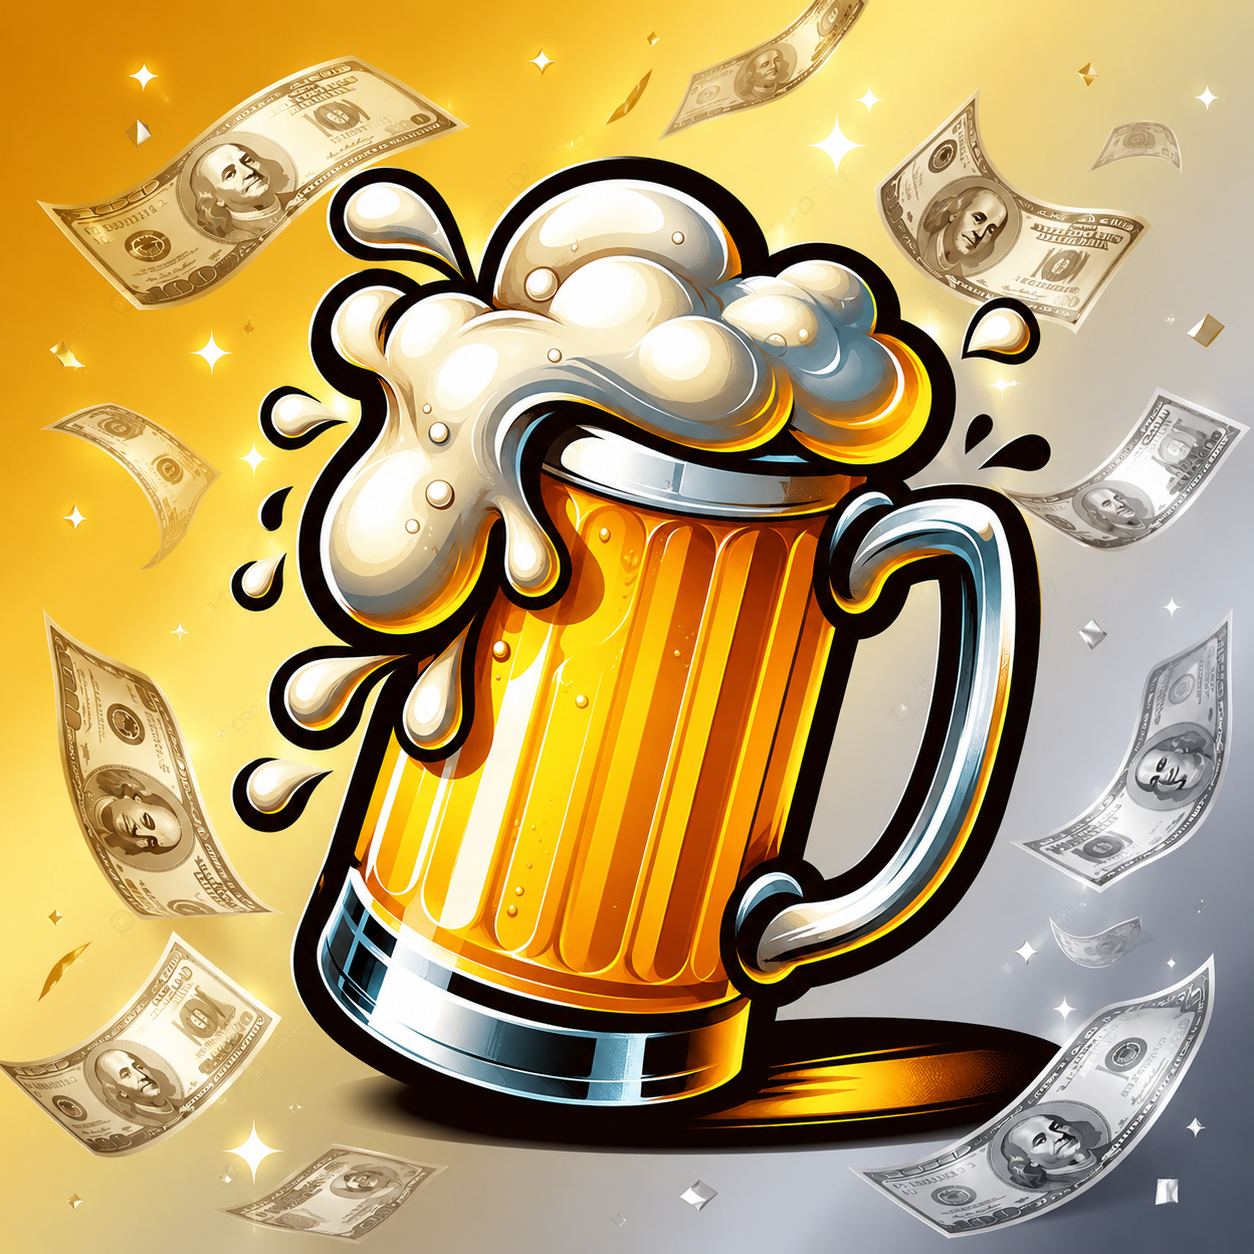
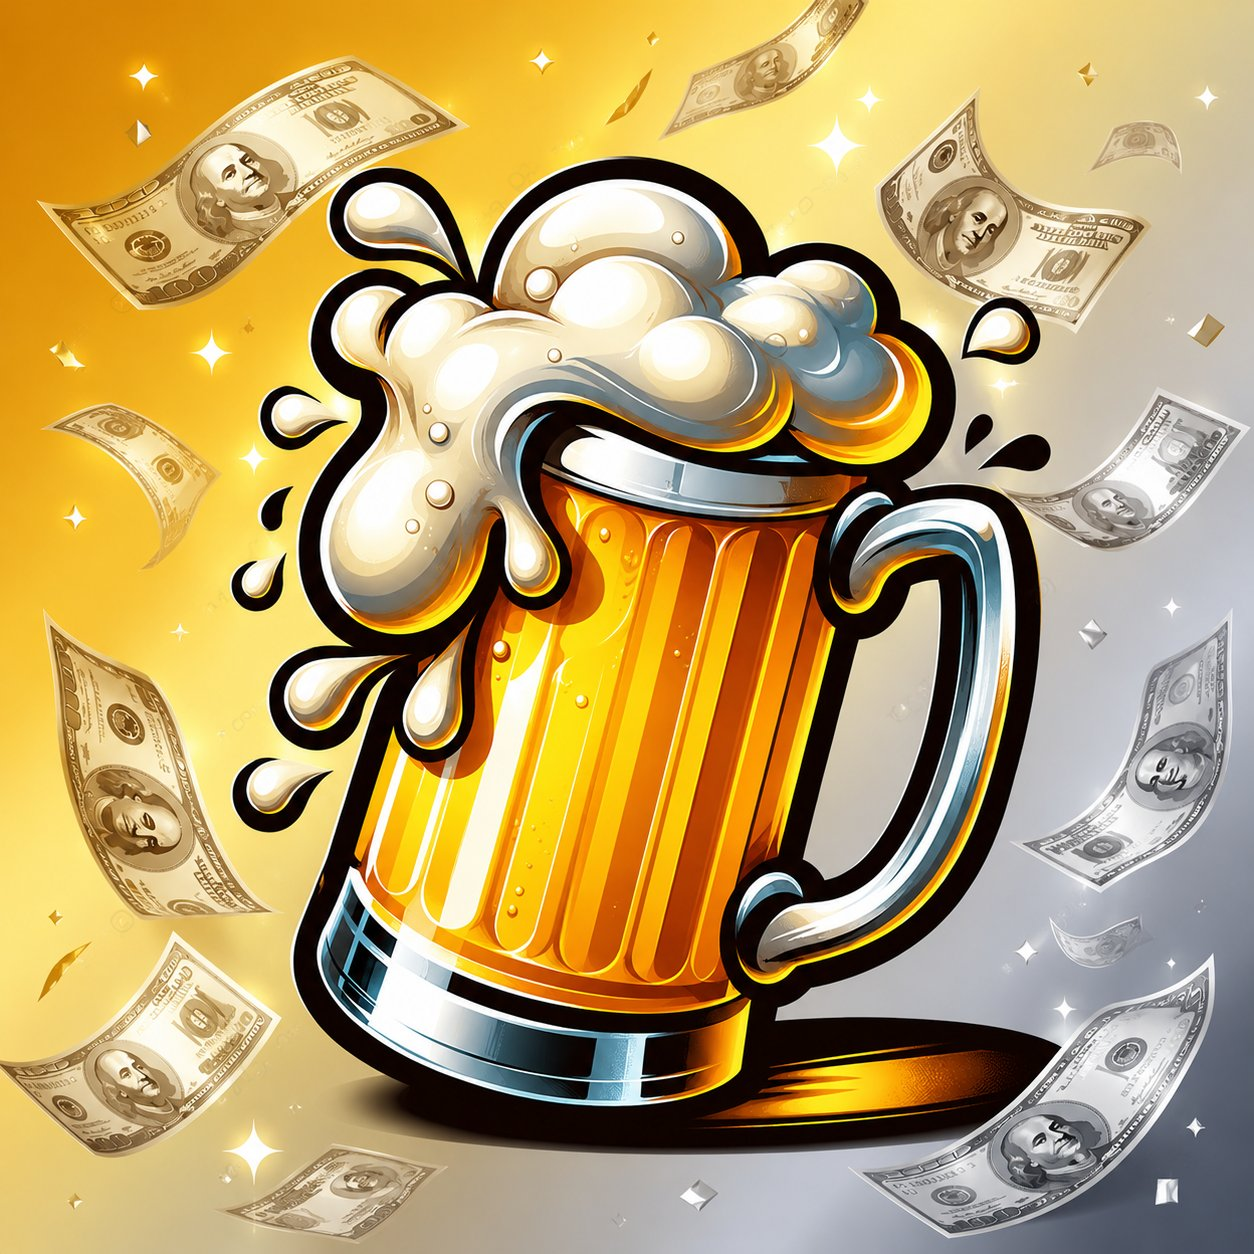
Add files via upload

diff --git a/js/app.js b/js/app.js
@@ -4,7 +4,7 @@
 
 let records = [];
 let stocks  = [];
-let settings = { shopName: 'ร้านลูกชิ้นปิ้ง & น้ำ', backupMonths: 3, firebaseConfig: '', lang: 'th' };
+let settings = { shopName: 'ร้านลูกชิ้นปิ้ง & น้ำ', backupMonths: 3, firebaseConfig: '', lang: 'th', ownerName: '', idCard: '' };
 let db = null;
 let reportPeriod = 'week';
 let nextId = 1;
@@ -490,6 +490,9 @@ function renderReport() {
   setText('lbl-pick-week',  isEn?'📅 Center date':'📅 วันกลาง');
   setText('btn-week-today', isEn?'Today':'วันนี้');
   setText('lbl-ymax', isEn?'Max ฿':'สูงสุด ฿');
+  setText('btn-export-pdf', isEn?'📄 Export PDF':'📄 Export PDF');
+  setText('lbl-owner-name', isEn?'Owner name':'ชื่อ-นามสกุลเจ้าของ');
+  setText('lbl-id-card', isEn?'ID card number':'เลขบัตรประชาชน');
   setText('leg-income',tx('legIncome')); setText('leg-expense',tx('legExpense'));
   document.getElementById('skewer-report').innerHTML = catBlockHTML(s.sIncome, s.sExpense, s.sNet);
   document.getElementById('drink-report').innerHTML  = catBlockHTML(s.dIncome, s.dExpense, s.dNet);
@@ -648,6 +651,8 @@ function updateBkPills() { [1,3,6,12,0].forEach(m=>{const e=document.getElementB
 function updateBkHint()  { const e=document.getElementById('lbl-backup-hint');if(e)e.textContent=txf('backupHint',selectedBackupMonths); }
 function saveSettings() {
   settings.shopName       = document.getElementById('setting-shop-name').value.trim()||settings.shopName;
+  settings.ownerName      = document.getElementById('setting-owner-name').value.trim();
+  settings.idCard         = document.getElementById('setting-id-card').value.trim();
   settings.backupMonths   = selectedBackupMonths;
   settings.firebaseConfig = document.getElementById('setting-firebase').value.trim();
   saveLocal(); initFirebase(settings.firebaseConfig); closeSettings(); renderAll(); showToast(tx('saved'));
@@ -1218,4 +1223,216 @@ function migrateMenuFromRecords() {
   } else {
     showToast(isEn ? 'No new items to add' : 'ไม่มีรายการใหม่ที่ต้องเพิ่ม');
   }
+}
+
+// ══════════════════════════════════════════════════════════════
+// STATEMENT PDF
+// ══════════════════════════════════════════════════════════════
+let stmtMode = 'range';
+
+function openStatementModal() {
+  stmtMode = 'range';
+  updateStmtMode();
+  // ค่า default
+  const now = new Date();
+  const y = now.getFullYear();
+  const m = String(now.getMonth()+1).padStart(2,'0');
+  document.getElementById('stmt-month').value = `${y}-${m}`;
+  // default range = เดือนนี้
+  document.getElementById('stmt-from').value = `${y}-${m}-01`;
+  document.getElementById('stmt-to').value   = todayStr();
+
+  const isEn = settings.lang==='en';
+  setText('lbl-stmt-title',  isEn?'📄 Export Statement PDF':'📄 Export Statement PDF');
+  setText('lbl-stmt-range',  isEn?'Period':'ช่วงเวลา');
+  setText('stmt-mode-range', isEn?'Custom range':'กำหนดเอง');
+  setText('stmt-mode-month', isEn?'By month':'รายเดือน');
+  setText('lbl-stmt-from',   isEn?'From':'จาก');
+  setText('lbl-stmt-to',     isEn?'To':'ถึง');
+  setText('lbl-stmt-month',  isEn?'Month':'เดือน');
+  setText('stmt-cancel',     isEn?'Cancel':'ยกเลิก');
+  setText('stmt-generate',   isEn?'📄 Generate PDF':'📄 สร้าง PDF');
+
+  document.getElementById('statement-modal').style.display='flex';
+}
+function closeStatementModal() {
+  document.getElementById('statement-modal').style.display='none';
+}
+function closeStatementOutside(e) {
+  if(e.target.id==='statement-modal') closeStatementModal();
+}
+function setStmtMode(mode) {
+  stmtMode = mode;
+  updateStmtMode();
+}
+function updateStmtMode() {
+  document.getElementById('stmt-range-row').style.display = stmtMode==='range'?'block':'none';
+  document.getElementById('stmt-month-row').style.display = stmtMode==='month'?'block':'none';
+  document.getElementById('stmt-mode-range').classList.toggle('active', stmtMode==='range');
+  document.getElementById('stmt-mode-month').classList.toggle('active', stmtMode==='month');
+}
+
+function generatePDF() {
+  const isEn = settings.lang==='en';
+
+  // ── กำหนดช่วงวันที่ ──
+  let fromStr, toStr, periodLabel;
+  if(stmtMode==='month') {
+    const ym = document.getElementById('stmt-month').value;
+    if(!ym) { showToast(isEn?'Please select month':'กรุณาเลือกเดือน'); return; }
+    const days = getMonthDays(ym);
+    fromStr = days[0]; toStr = days[days.length-1];
+    const d = new Date(ym+'-01T00:00:00');
+    periodLabel = d.toLocaleDateString(isEn?'en-GB':'th-TH',{year:'numeric',month:'long'});
+  } else {
+    fromStr = document.getElementById('stmt-from').value;
+    toStr   = document.getElementById('stmt-to').value;
+    if(!fromStr||!toStr) { showToast(isEn?'Please select date range':'กรุณาเลือกวันที่'); return; }
+    periodLabel = `${fromStr} – ${toStr}`;
+  }
+
+  // ── กรอง records ──
+  const recs = [...records]
+    .filter(r => r.date>=fromStr && r.date<=toStr)
+    .sort((a,b) => a.date.localeCompare(b.date)||a.id-b.id);
+
+  const s = calcStats(recs);
+
+  // ── ฟอร์แมตตัวเลข ──
+  const b = n => `฿${Math.round(n).toLocaleString('th-TH')}`;
+
+  // ── type label ──
+  const typeMap = {
+    'income-skewer':  isEn?'Income — Skewer':'รายรับ — ลูกชิ้น',
+    'income-drink':   isEn?'Income — Drinks':'รายรับ — น้ำ',
+    'income-other':   isEn?'Income — Other':'รายรับ — อื่นๆ',
+    'expense-skewer': isEn?'Expense — Skewer':'รายจ่าย — ลูกชิ้น',
+    'expense-drink':  isEn?'Expense — Drinks':'รายจ่าย — น้ำ',
+    'expense-other':  isEn?'Expense — Other':'รายจ่าย — อื่นๆ',
+  };
+
+  // ── สร้าง HTML statement ──
+  const rows = recs.map((r,i) => {
+    const isInc = r.type.startsWith('income');
+    return `<tr>
+      <td style="text-align:center">${i+1}</td>
+      <td>${r.date}</td>
+      <td>${r.desc||'—'}</td>
+      <td>${typeMap[r.type]||r.type}</td>
+      <td style="text-align:right;color:#0A7A50">${isInc?b(r.amount):''}</td>
+      <td style="text-align:right;color:#C0392B">${!isInc?b(r.amount):''}</td>
+    </tr>`;
+  }).join('');
+
+  const idDisplay = settings.idCard
+    ? settings.idCard.replace(/(\d)(\d{4})(\d{5})(\d{2})(\d)/,'$1-$2-$3-$4-$5')
+    : '—';
+
+  const html = `<!DOCTYPE html>
+<html lang="th">
+<head>
+<meta charset="UTF-8">
+<title>Statement — ${settings.shopName}</title>
+<style>
+  @import url('https://fonts.googleapis.com/css2?family=Sarabun:wght@300;400;500;600&display=swap');
+  * { box-sizing:border-box; margin:0; padding:0; }
+  body { font-family:'Sarabun',sans-serif; font-size:13px; color:#1A1A1A; padding:32px; }
+  h1 { font-size:20px; font-weight:600; margin-bottom:4px; }
+  .header { border-bottom:2px solid #FF6B6B; padding-bottom:12px; margin-bottom:18px; }
+  .header-grid { display:grid; grid-template-columns:1fr 1fr; gap:4px; margin-top:8px; font-size:12px; color:#555; }
+  .period-badge { display:inline-block; background:#FFF0EB; color:#C44A18; border:1px solid #FFD6CC; border-radius:6px; padding:3px 10px; font-size:12px; font-weight:600; margin-top:6px; }
+  table { width:100%; border-collapse:collapse; margin-bottom:20px; }
+  th { background:#FF6B6B; color:white; padding:7px 8px; text-align:left; font-size:12px; font-weight:600; }
+  td { padding:6px 8px; border-bottom:1px solid #EEE; font-size:12px; vertical-align:top; }
+  tr:nth-child(even) td { background:#FAFAFA; }
+  .summary { background:#FFF8F5; border:1px solid #FFD6CC; border-radius:8px; padding:14px 18px; margin-bottom:20px; }
+  .summary h3 { font-size:14px; font-weight:600; margin-bottom:10px; color:#C44A18; }
+  .sum-grid { display:grid; grid-template-columns:repeat(3,1fr); gap:10px; }
+  .sum-item { text-align:center; }
+  .sum-label { font-size:11px; color:#777; margin-bottom:3px; }
+  .sum-value { font-size:16px; font-weight:600; }
+  .sum-income { color:#0A7A50; }
+  .sum-expense { color:#C0392B; }
+  .sum-profit.pos { color:#0A7A50; }
+  .sum-profit.neg { color:#C0392B; }
+  .monthly-table { margin-bottom:20px; }
+  .monthly-table h3 { font-size:13px; font-weight:600; margin-bottom:8px; color:#333; }
+  .sign { font-size:11px; color:#888; margin-top:20px; }
+  @media print {
+    body { padding:16px; }
+    button { display:none; }
+  }
+</style>
+</head>
+<body>
+<div class="header">
+  <h1>รายงานเงินสดรับ-จ่าย</h1>
+  <div class="period-badge">📅 ${periodLabel}</div>
+  <div class="header-grid">
+    <div>ชื่อสถานประกอบการ: <strong>${settings.shopName||'—'}</strong></div>
+    <div>ชื่อ-นามสกุลเจ้าของ: <strong>${settings.ownerName||'—'}</strong></div>
+    <div>เลขประจำตัวประชาชน: <strong>${idDisplay}</strong></div>
+    <div>วันที่จัดทำ: <strong>${new Date().toLocaleDateString('th-TH',{year:'numeric',month:'long',day:'numeric'})}</strong></div>
+  </div>
+</div>
+
+<div class="summary">
+  <h3>สรุปผลการดำเนินงาน</h3>
+  <div class="sum-grid">
+    <div class="sum-item">
+      <div class="sum-label">รายรับรวม</div>
+      <div class="sum-value sum-income">${b(s.income)}</div>
+    </div>
+    <div class="sum-item">
+      <div class="sum-label">รายจ่ายรวม</div>
+      <div class="sum-value sum-expense">${b(s.expense)}</div>
+    </div>
+    <div class="sum-item">
+      <div class="sum-label">กำไรสุทธิ</div>
+      <div class="sum-value sum-profit ${s.net>=0?'pos':'neg'}">${b(s.net)}</div>
+    </div>
+  </div>
+</div>
+
+<table>
+  <thead>
+    <tr>
+      <th style="width:40px;text-align:center">ลำดับ</th>
+      <th style="width:90px">วันที่</th>
+      <th>รายการ</th>
+      <th style="width:150px">ประเภท</th>
+      <th style="width:90px;text-align:right">รายรับ</th>
+      <th style="width:90px;text-align:right">รายจ่าย</th>
+    </tr>
+  </thead>
+  <tbody>
+    ${rows||`<tr><td colspan="6" style="text-align:center;color:#999;padding:20px">ไม่มีรายการในช่วงเวลาที่เลือก</td></tr>`}
+    <tr style="font-weight:600;background:#FFF0EB">
+      <td colspan="4" style="text-align:right">รวมทั้งสิ้น</td>
+      <td style="text-align:right;color:#0A7A50">${b(s.income)}</td>
+      <td style="text-align:right;color:#C0392B">${b(s.expense)}</td>
+    </tr>
+    <tr style="font-weight:700;background:#FFE5DC">
+      <td colspan="4" style="text-align:right">กำไร (ขาดทุน) สุทธิ</td>
+      <td colspan="2" style="text-align:right;color:${s.net>=0?'#0A7A50':'#C0392B'};font-size:14px">${b(s.net)}</td>
+    </tr>
+  </tbody>
+</table>
+
+<div class="sign">
+  <p>ลงชื่อ ..................................................... ผู้จัดทำ</p>
+  <p style="margin-top:4px">(${settings.ownerName||'......................................'})</p>
+  <p style="margin-top:8px;color:#AAA;font-size:11px">จัดทำโดยระบบบันทึกรายรับรายจ่าย — ${settings.shopName}</p>
+</div>
+</body>
+</html>`;
+
+  // เปิด window ใหม่แล้วสั่ง print
+  const win = window.open('','_blank','width=900,height=700');
+  win.document.write(html);
+  win.document.close();
+  win.onload = () => {
+    setTimeout(()=>{ win.print(); }, 500);
+  };
+  closeStatementModal();
 }

diff --git a/index.html b/index.html
@@ -212,10 +212,16 @@
 
     <!-- REPORT TAB -->
     <section id="sec-report" class="tab-section">
-      <div class="period-toggle" style="margin-bottom:14px">
+      <div style="display:flex;justify-content:space-between;align-items:center;flex-wrap:wrap;gap:8px;margin-bottom:14px">
+        <div class="period-toggle" style="margin-bottom:0">
         <button class="period-btn active" onclick="setPeriod('week')" id="btn-week">รายสัปดาห์</button>
         <button class="period-btn" onclick="setPeriod('month')" id="btn-month">รายเดือน</button>
         <button class="period-btn" onclick="setPeriod('custom')" id="btn-custom">กำหนดเอง</button>
+        </div>
+        <button class="btn btn-sm" onclick="openStatementModal()" id="btn-export-pdf"
+          style="background:linear-gradient(135deg,#FF6B6B,#FF8E53);color:#fff;border:none;white-space:nowrap">
+          📄 Export PDF
+        </button>
       </div>
       <div id="custom-range" style="display:none" class="card" style="padding:0.75rem">
         <div class="form-row">
@@ -295,6 +301,14 @@
       <label id="lbl-shop-name-setting">ชื่อร้าน</label>
       <input type="text" id="setting-shop-name" placeholder="ร้านลูกชิ้นปิ้ง & น้ำ">
     </div>
+    <div class="form-group">
+      <label id="lbl-owner-name">ชื่อ-นามสกุลเจ้าของ</label>
+      <input type="text" id="setting-owner-name" placeholder="ชื่อ นามสกุล">
+    </div>
+    <div class="form-group">
+      <label id="lbl-id-card">เลขบัตรประชาชน</label>
+      <input type="text" id="setting-id-card" placeholder="x-xxxx-xxxxx-xx-x" maxlength="17">
+    </div>
 
     <div class="form-group">
       <label id="lbl-backup-months">เก็บข้อมูลย้อนหลัง (เดือน)</label>
@@ -331,6 +345,45 @@
     </div>
   </div>
 </div>
+
+<!-- Statement Modal -->
+<div id="statement-modal" class="modal-overlay" style="display:none" onclick="closeStatementOutside(event)">
+  <div class="modal-box">
+    <div class="modal-title" id="lbl-stmt-title">📄 Export Statement PDF</div>
+    <div class="form-group">
+      <label id="lbl-stmt-range">ช่วงเวลา</label>
+      <div style="display:flex;gap:8px;margin-bottom:10px">
+        <button class="bk-pill active" onclick="setStmtMode('range')" id="stmt-mode-range">กำหนดเอง</button>
+        <button class="bk-pill" onclick="setStmtMode('month')" id="stmt-mode-month">รายเดือน</button>
+      </div>
+      <div id="stmt-range-row">
+        <div class="form-row">
+          <div class="form-group">
+            <label id="lbl-stmt-from">จาก</label>
+            <input type="date" id="stmt-from">
+          </div>
+          <div class="form-group">
+            <label id="lbl-stmt-to">ถึง</label>
+            <input type="date" id="stmt-to">
+          </div>
+        </div>
+      </div>
+      <div id="stmt-month-row" style="display:none">
+        <div class="form-group">
+          <label id="lbl-stmt-month">เดือน</label>
+          <input type="month" id="stmt-month">
+        </div>
+      </div>
+    </div>
+    <div style="display:flex;gap:8px;justify-content:flex-end;margin-top:8px">
+      <button class="btn btn-outline" onclick="closeStatementModal()" id="stmt-cancel">ยกเลิก</button>
+      <button class="btn btn-primary" style="width:auto" onclick="generatePDF()" id="stmt-generate">📄 สร้าง PDF</button>
+    </div>
+  </div>
+</div>
+
+<!-- Statement Content (hidden, used for print) -->
+<div id="statement-print-area" style="display:none"></div>
 
 <!-- Firebase SDKs -->
 <script src="https://www.gstatic.com/firebasejs/9.23.0/firebase-app-compat.js"></script>